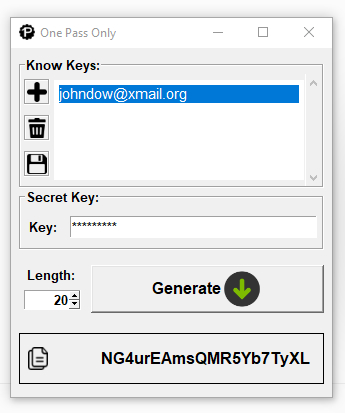
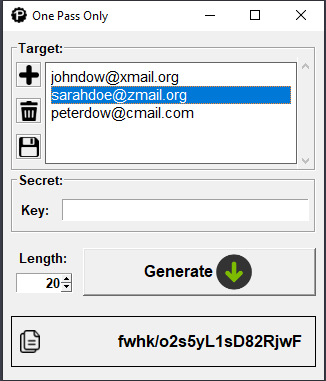
Rename target and secret.

Changed region(s): [[0.0, 0.0, 1.0, 1.0], [0.184, 0.5197, 0.3374, 0.5774]]

diff --git a/opogui.py b/opogui.py
@@ -68,7 +68,7 @@ class OPOGui:
         # main_menu.add_cascade(menu=menu_about, label='About')
 
         # Label Frame containing the list of all logins or Known Keys and the add, remove and save buttons
-        knownkey_frame = LabelFrame(mainframe, text='Know Keys:')
+        knownkey_frame = LabelFrame(mainframe, text='Target:')
         knownkey_frame.grid(column=0, row=0, sticky="N S E W")
         knownkey_frame['labelanchor'] = 'nw'
         knownkey_frame['font'] = FONTS['default']
@@ -108,7 +108,7 @@ class OPOGui:
         list_scroll.grid(column=2, row=0, sticky="N S")
         self.items_list.configure(yscrollcommand=list_scroll.set)
 
-        unknownkey_frame = LabelFrame(mainframe, text='Secret Key:')
+        unknownkey_frame = LabelFrame(mainframe, text='Secret:')
         unknownkey_frame.grid(column=0, row=1, sticky="N S E W")
         unknownkey_frame['labelanchor'] = 'nw'
         unknownkey_frame['font'] = FONTS['default']

diff --git a/README.md b/README.md
@@ -1,12 +1,20 @@
 # onepassonly v0.1
 
-**OnePassOnly** app is a solution for securely generating and managing your passwords. 
-With **OnePassOnly**, you can easily create unique and complex passwords for all of your online accounts, without the hassle of remembering them all.
+**OnePassOnly** app is a simple solution for securely generating and managing your passwords. 
+With **OnePassOnly**, you can easily create unique and complex passwords for all of your online accounts, without the hassle of remembering them all but the only one you consider easier to remember.
 
-The app works by taking a <i>known key</i>, such as your account name and domain e.g. <i>johndow@xmail.org</i>, and combining it with a unique <i>secret key</i> provided by you. 
-This combination is then run through an algorithm to create a password that is both strong and unique. The point of the app is remove the burden of handling to many passwords.
+The app works by taking a <i>**Target**</i>, such as login name and domain of the target account e.g. <i>johndow@xmail.org</i>, and combining it with a unique <i>**Secret**</i> provided by you. 
+This combination is then run through an algorithm to create a password that is both strong and unique. It ensures also that every time you use the same target and secret you get the same password.
 
-Also allows you to store and manage all of your <i>known keys</i> in your local machine. 
-You can easily access your passwords whenever you need them, just by remembering one unique secure key.
+Also allows you to store and manage all of your <i>Target</i> in your local machine. 
+
 
 ![](screens/screen1.jpg)
+
+Run the app:
+```python
+import opogui
+ 
+app = opogui.OPOGui()
+app.run()
+```
